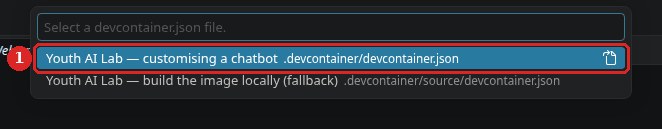
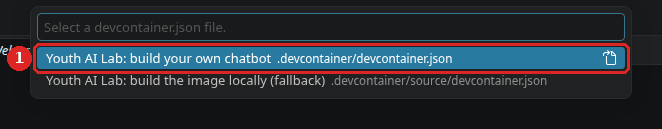
Guides IA locale et dev containers : passage à la grille humaniser, plus aucun tiret cadratin ; noms de conteneurs de l'image 2026.10.38 et capture choose-devcontainer refaite ; facilitator/local-ai sans cadratin ; run.sh ne contrôle plus le port 3000 pour SHOTS_ONLY=dc-1d

Changed region(s): [[0.1813, 0.5891, 0.8459, 0.6822], [0.1813, 0.4031, 0.6949, 0.5271]]

diff --git a/README.md b/README.md
@@ -1,6 +1,6 @@
 # The workshops and the guides on your own computer
 
-## Youth AI Lab — Erasmus+ project
+## Youth AI Lab - Erasmus+ project
 
 - **Partners:** L.A.B. (Aix-en-Provence), UAB (Barcelona), Perlatecnica (Naples), Digitale Wolven
   (Antwerp), CSC Vent des Îles (La Rochelle)
@@ -404,11 +404,11 @@ VS Code may then ask **Do you trust the authors of the files in this folder?**: 
 ![The window Do you trust the authors of the files in this folder? 1: the button Trust Folder & Continue.](images/trust-folder.png)
 
 **The kit only.** The kit has two configurations, so VS Code asks **Select a devcontainer.json
-file.**: choose **Youth AI Lab — customising a chatbot**. The other line, **Youth AI Lab — build the
+file.**: choose **Youth AI Lab: build your own chatbot**. The other line, **Youth AI Lab: build the
 image locally (fallback)**, is for the facilitator. A workshop or a guide has only one configuration,
 and VS Code goes straight on.
 
-![The list Select a devcontainer.json file. 1: the line Youth AI Lab — customising a chatbot. Below it, the line Youth AI Lab — build the image locally (fallback).](images/choose-devcontainer.png)
+![The list Select a devcontainer.json file. 1: the line Youth AI Lab: build your own chatbot. Below it, the line Youth AI Lab: build the image locally (fallback).](images/choose-devcontainer.png)
 
 The first time, Docker downloads the image (4.34 GB on disk): a few minutes. The next times, the
 container opens in a few seconds.
@@ -420,10 +420,9 @@ A notification may also ask you to support an extension: close it.
 ![The window Welcome to VS Code, Sign in to use GitHub Copilot. 1: the button Continue without Signing In, at the bottom right.](images/welcome-without-sign-in.png)
 
 **What you should see.** VS Code reopens. The bottom left corner reads **Dev Container:** and the
-name of the container, often cut short: for the workshops and the kit, **Dev Container: Youth AI
-Lab — customisin…**. The full name, **Youth AI Lab — customising a chatbot**, is in the title of
-the window. The guides have their own names: **Youth AI Lab — group chatbots with Open WebUI**,
-**Youth AI Lab — a chatbot with OpenCode**, and **Youth AI Lab — an assistant with Hermes Agent**. Open
+name of the container, often cut short. The full name is in the title of the window: for the
+workshops and the kit, **Youth AI Lab: build your own chatbot**. The guides have their own names: **Youth AI Lab: group chatbots with Open WebUI**,
+**Youth AI Lab: a chatbot with OpenCode**, and **Youth AI Lab: an assistant with Hermes Agent**. Open
 a terminal (menu **Terminal → New Terminal**): it greets you with the message of the repository (the
 workshops, the kit and the Open WebUI guide: **"Welcome! First, save your API key: workshop-login"**;
 the OpenCode guide: **"Welcome! Start the chatbot of this guide with: chatbot"**; the Hermes guide:
